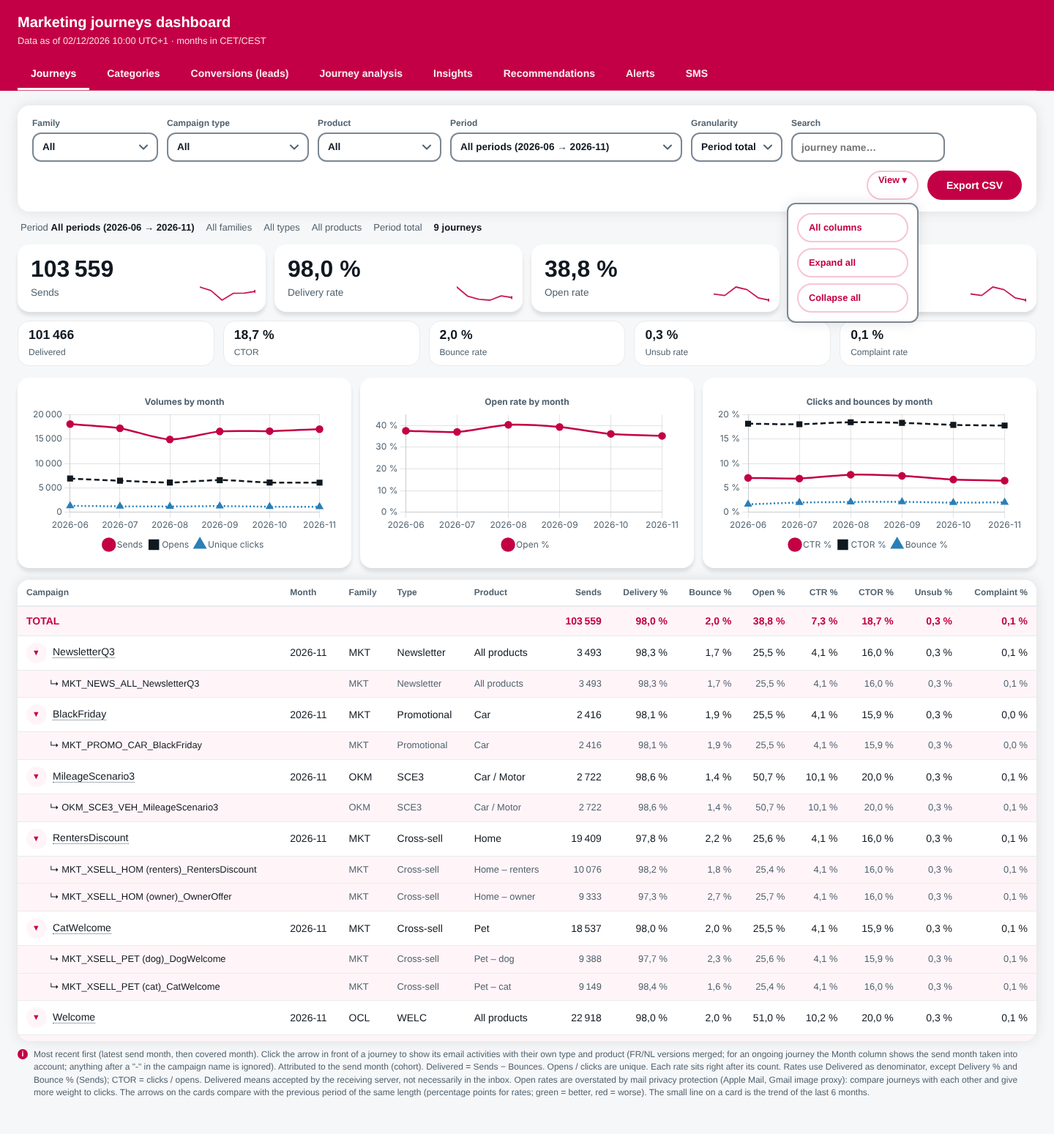
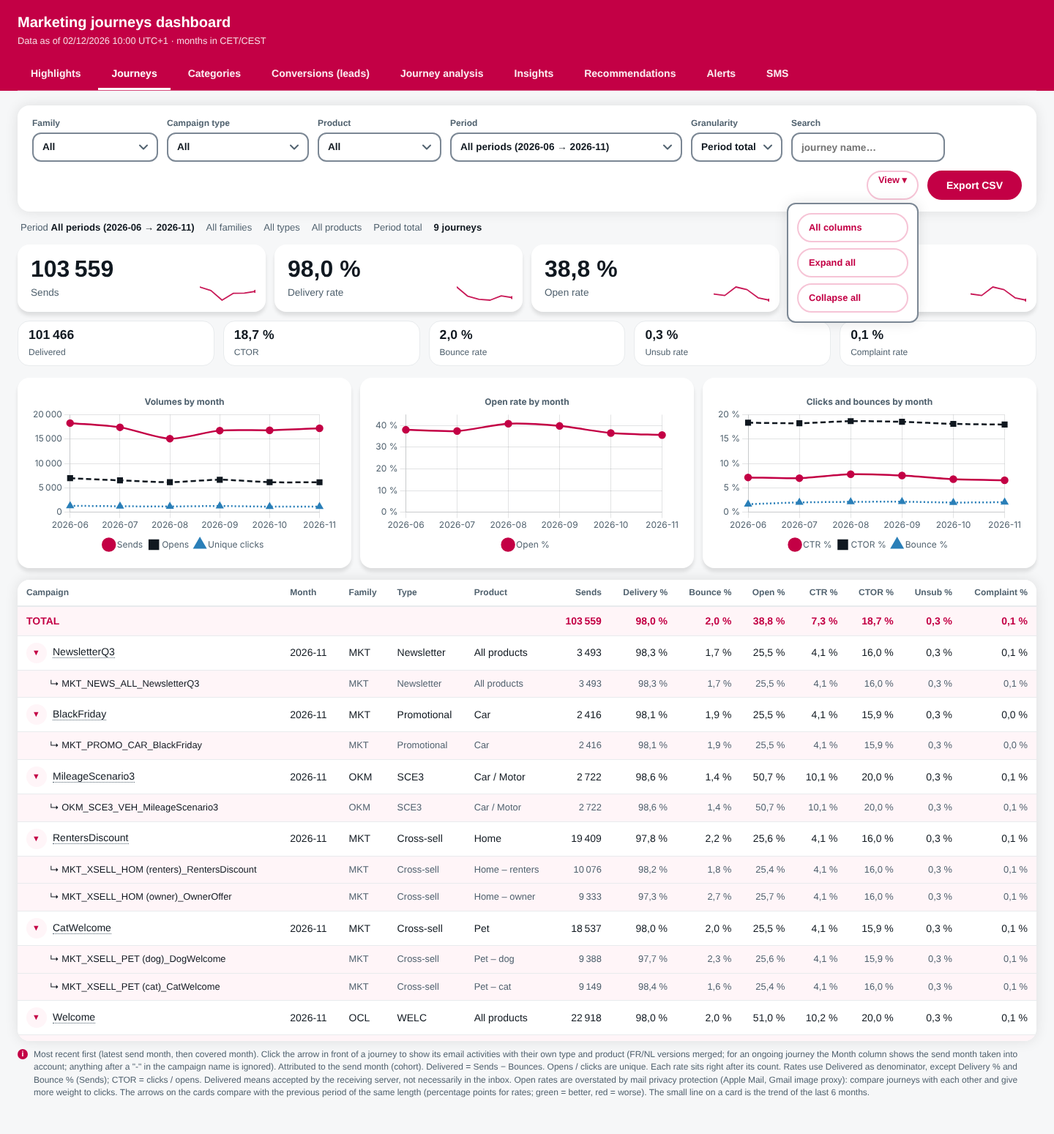
Highlights tab: key figures of the last 30 days, MKT campaigns sent, alerts and recommendations; DASH_Journey_KPI_Daily (query 28) and API part=daily
Claude-Session: https://claude.ai/code/session_01WtzjzeTDomDiWbenzCQNQG

diff --git a/html/cloudpage_dashboard.html b/html/cloudpage_dashboard.html
@@ -279,6 +279,12 @@ tr.child:hover td{background:var(--pink-light)}
 .top .bar2 i{display:block;height:100%;background:var(--red);border-radius:3px}
 .top .bar2{position:relative;overflow:visible}.top .bar2 i.mid{background:#d98a00}.top .bar2 i.hi{background:var(--red)}.top .bar2 .mk{position:absolute;top:-4px;width:2px;height:14px;background:var(--fg);opacity:.55}
 .cls{display:inline-flex;align-items:center;gap:4px;margin-right:8px;white-space:nowrap}.cls i{display:inline-block;width:14px;height:14px;border-radius:3px;border:1px solid rgba(16,24,32,.2)}
+.two{display:grid;grid-template-columns:repeat(auto-fit,minmax(380px,1fr));gap:12px;margin-bottom:16px}.two .card:hover{transform:none;border-color:transparent}.two h3{margin:0 0 8px;font-size:1rem}.two .n{font-size:.75rem;font-weight:600;padding:1px 9px;border-radius:12px;background:var(--pink-bg);color:var(--tx-red);margin-left:6px}
+.attn{list-style:none;margin:0 0 10px;padding:0}.attn li{display:grid;grid-template-columns:auto 1fr auto;gap:10px;align-items:center;padding:8px 0;border-top:1px solid var(--line)}.attn li:first-child{border-top:0}.attn small{display:block;color:var(--mute);font-size:.75rem;font-weight:400}.attn .sev{font-size:.72rem;font-weight:700;padding:1px 9px;border-radius:12px;border:1px solid currentColor;white-space:nowrap}
+.attn .sev.high{color:var(--err-text,#c40026)}.attn .sev.medium{color:#a86600}.attn .sev.info{color:#1f6a9c}.two p.ok{color:var(--ok-text);font-weight:600;margin:4px 0 10px}
+@media (prefers-color-scheme:dark){.attn .sev.medium{color:#f0b24a}.attn .sev.info{color:#6cb8ee}}
+.stt{font-weight:700;padding:1px 10px;border-radius:12px;border:1px solid var(--line);white-space:nowrap}.stt.fix{color:var(--err-text,#c40026);border-color:currentColor}.stt.watch{color:#a86600;border-color:currentColor}.stt.ok{color:var(--ok-text);border-color:currentColor}@media (prefers-color-scheme:dark){.stt.watch{color:#f0b24a}}
+.hlbtns{margin:12px 0 18px}
 .top .rl{margin:-4px 0 6px;font-size:.72rem;color:var(--mute)}
 td.bad{color:var(--err-text);font-weight:700}
 @media (max-width:768px){header{padding:12px 16px 0}main{padding:16px}.bar{padding:12px}.tab{padding:8px 12px}}
@@ -338,7 +344,8 @@ a.jl:focus-visible{outline:2px solid var(--focus);outline-offset:2px;border-radi
   <h1>Marketing journeys dashboard</h1>
   <div class="sub" id="gen" role="status" aria-live="polite">Loading…</div>
   <div class="tabs" role="tablist" aria-label="Dashboard sections">
-    <button class="tab" role="tab" id="tab-journeys" data-tab="journeys" aria-selected="true" aria-controls="v-main" tabindex="0">Journeys</button>
+    <button class="tab" role="tab" id="tab-hl" data-tab="hl" aria-selected="true" aria-controls="v-hl" tabindex="0">Highlights</button>
+    <button class="tab" role="tab" id="tab-journeys" data-tab="journeys" aria-selected="false" aria-controls="v-main" tabindex="-1">Journeys</button>
     <button class="tab" role="tab" id="tab-cats" data-tab="cats" aria-selected="false" aria-controls="v-main" tabindex="-1">Categories</button>
     <button class="tab" role="tab" id="tab-conv" data-tab="conv" aria-selected="false" aria-controls="v-main" tabindex="-1">Conversions (leads)</button>
     <button class="tab" role="tab" id="tab-ana" data-tab="ana" aria-selected="false" aria-controls="v-ana" tabindex="-1">Journey analysis</button>
@@ -389,6 +396,17 @@ a.jl:focus-visible{outline:2px solid var(--focus);outline-offset:2px;border-radi
   </div>
   <div id="ctx" class="ctx" role="status" aria-live="polite" hidden></div>
   <details id="warn" class="warn" hidden><summary><span aria-hidden="true">⚠</span> <span id="warnSum"></span></summary><p id="warnTxt"></p></details>
+
+  <section id="v-hl" hidden>
+    <div id="hlMsg" class="warn" role="status" hidden></div>
+    <div id="hlCards" class="cards"></div>
+    <h2 class="h2" id="hlCampTitle">Marketing campaigns sent in the last 30 days</h2>
+    <div class="wrap"><table id="tHl"></table></div>
+    <div class="hlbtns"><button type="button" class="btn2" data-go='{"tab":"journeys"}'>All journeys</button></div>
+    <h2 class="h2">Needs attention</h2>
+    <div class="two" id="hlAttn"></div>
+    <div class="note" id="hlNote"></div>
+  </section>
 
   <section id="v-main">
     <div id="cards" class="cards"></div>
@@ -497,7 +515,7 @@ const ALERT_MIN_DAYS = CFG.alertMinDays ?? 3;    /* do not alert before this man
 const DARK = () => window.matchMedia && matchMedia('(prefers-color-scheme: dark)').matches;
 const PAL_L = ['#c30045','#101820','#2a7fb8','#4b9b30','#ad0cdf'], PAL_D = ['#ff7da3','#eef0f2','#6cb8ee','#7fd36a','#d28bff'];
 const DASHES = [[],[7,4],[2,3],[10,3,2,3]], PTS = ['circle','rect','triangle','rectRot'];   /* series differ by shape and line style, not only by colour */
-const S = {tab:'journeys', fam:'ALL', type:'', prod:'', per:'all', from:'', to:'', gran:'total', grp:'journey', view:'cat', q:'', j:'', j2:'', gz:'', rc:'all', alert:'ongoing', compact:true, sub:'deliv', win:'3', gl:'prov', seg:'all', gc:'n'};
+const S = {tab:'hl', fam:'ALL', type:'', prod:'', per:'all', from:'', to:'', gran:'total', grp:'journey', view:'cat', q:'', j:'', j2:'', gz:'', rc:'all', alert:'ongoing', compact:true, sub:'deliv', win:'3', gl:'prov', seg:'all', gc:'n'};
 let DEF = {}, JSET = new Set(), FOCUS = null;
 const SORT = {};   /* sort state per table id: {k,d} */
 const EXP = new Set();   /* expanded journey rows (email activity detail) */
@@ -505,6 +523,7 @@ const LKINIT = new Set();
 const EXPKEYS = {};      /* keys of the rows that can be expanded, per table */
 
 const TABS = {
+  hl:      {view:'hl',   ctl:[], csv:null},
   journeys:{view:'main', ctl:['lFam','lType','lProd','lPer','lGran','lCompact','lExp','lQ'], csv:'tbl'},
   cats:    {view:'main', ctl:['lFam','lType','lProd','lPer','lGran','lCompact','lView','lQ'], csv:'tbl'},
   conv:    {view:'main', ctl:['lFam','lType','lProd','lPer','lGran','lGrp','lExp','lQ'], csv:'tbl'},
@@ -534,7 +553,7 @@ function remapRows(rows, fields){
   for (const r of rows) for (const f of fields){ const v = r[f]; if (v && JM[v]){ const c = jmCanon(v); if (c!==v){ let st = JORIG.get(c); if (!st){ st = new Set(); JORIG.set(c,st); } st.add(v); r[f] = c; } } }
   return rows;
 }
-const jmFields = {conv:['JourneyName','ConvJourney'], email:['JourneyName'], kpi:['JourneyName'], sms:['JourneyName'], domain:[]};
+const jmFields = {conv:['JourneyName','ConvJourney'], email:['JourneyName'], kpi:['JourneyName'], sms:['JourneyName'], domain:[], daily:['JourneyName']};
 function parse(name){
   if (_pc.has(name)) return _pc.get(name);
   if (name==='(no email)'){ const o = {fam:'–',type:'–',product:'–',campaign:name,period:'',covered:''}; _pc.set(name,o); return o; }
@@ -896,6 +915,61 @@ function viewConv(){
     (legacy ? " DASH_Conversions still has the old structure: rerun query 04 (backfill) after adding the new fields (see the README)." : "");
 }
 
+/* ---------- Highlights : last 30 days, MKT campaigns sent, what needs attention ---------- */
+let HLCTX = [];
+const addDays = (d, k) => { const t = new Date(d+'T00:00:00Z'); t.setUTCDate(t.getUTCDate()+k); return t.toISOString().slice(0,10); };
+const median = a => { const v = a.filter(x=>x!=null).sort((x,y)=>x-y), m = v.length>>1; return v.length ? (v.length%2 ? v[m] : (v[m-1]+v[m])/2) : null; };
+function viewHl(){
+  charts.forEach(c=>c.destroy()); charts = [];
+  if (D.aud===null && !D.audErr) loadAudience().then(()=>{ if (S.tab==='hl') render(); });
+  const msg = $('hlMsg'), dl = D.daily;
+  HLCTX = [];
+  if (!dl.length){
+    msg.hidden = false; msg.textContent = D.loading.has('daily') ? 'Loading the last 30 days…' : 'No daily data yet (DASH_Journey_KPI_Daily): create the data extension and run query 28 (see the README).';
+    cards('hlCards', []); $('tHl').innerHTML = ''; $('hlCampTitle').textContent = 'Marketing campaigns sent in the last 30 days';
+  } else {
+    msg.hidden = true;
+    const end = dl.reduce((m,r)=>r.SendDay>m?r.SendDay:m,''), start = addDays(end,-29), pS = addDays(end,-59), pE = addDays(end,-30);
+    const cur = dl.filter(r=>r.SendDay>=start && r.SendDay<=end), prv = dl.filter(r=>r.SendDay>=pS && r.SendDay<=pE);
+    HLCTX = ['Last 30 days <b>'+start+' → '+end+'</b>', prv.length ? 'compared with <b>'+pS+' → '+pE+'</b>' : 'no previous 30 days to compare with'];
+    const tot = group(cur, r=>['','']) [0] || ZERO(), ptot = prv.length ? group(prv, r=>['','']) [0] : null;
+    const series = group(cur, r=>['',r.SendDay]).sort((a,b)=>a.month<b.month?-1:1);
+    const all = kpiCards(tot, ptot, {from:pS,to:pE}, series.length>=3 ? series : null), pick = l => all.find(x=>x[1]===l);
+    cards('hlCards', ['Sends','Delivery rate','Open rate','CTR (unique)','Bounce rate','Unsub rate','Complaint rate'].map(pick).filter(Boolean), 4);
+    /* marketing campaigns that sent something in the window, with a simple status against similar campaigns */
+    const mk = group(cur.filter(r=>/^MKT_/.test(r.JourneyName)), r=>[r.JourneyName,'']).filter(a=>a.Sends>0);
+    const minS = RECO.minSends||1000, gap = (RECO.gapPt||5)/100, orate = a => deliv(a) ? a.Opens/deliv(a) : null;
+    mk.forEach(a=>{
+      const p = parse(a.name), peers = mk.filter(x=>x!==a && parse(x.name).type===p.type && deliv(x)>=minS), pool = peers.length>=2 ? peers : mk.filter(x=>x!==a && deliv(x)>=minS), mo = median(pool.map(orate)), o = orate(a);
+      const b = a.Sends ? a.Bounces/a.Sends : 0, c = deliv(a) ? a.Compl/deliv(a) : 0;
+      a.st = deliv(a)<minS ? 'Few sends' : (b>=0.05 || c>=0.003) ? 'Fix' : (b>=0.02 || c>=0.001 || (mo!=null && o!=null && o < mo-gap)) ? 'Watch' : 'OK';
+      a.why = a.st==='Fix' || a.st==='Watch' ? (b>=0.02 ? 'bounce '+pct(a.Bounces,a.Sends) : c>=0.001 ? 'complaints '+fx2(c*100)+' %' : 'open rate '+fx1((mo-o)*100)+' pts below similar campaigns') : '';
+    });
+    mk.sort((a,b)=>a.last<b.last?1:a.last>b.last?-1:b.Sends-a.Sends);
+    const top = mk.slice(0,8);
+    $('hlCampTitle').textContent = 'Marketing campaigns sent in the last 30 days ('+mk.length+')';
+    const keyCols = [{k:'name',l:'Campaign',v:a=>parse(a.name).campaign.toLowerCase(),f:a=>JSET.has(a.name) ? `<a href="#" class="jl" data-j="${esc(a.name)}" title="${esc(a.name)} – open the journey analysis">${esc(parse(a.name).campaign)}</a>` : esc(parse(a.name).campaign)}];
+    const cols = [
+      {k:'type',l:'Type',v:a=>parse(a.name).type,f:a=>esc(lab('type',parse(a.name).type)),left:true},
+      {k:'last',l:'Last send',v:a=>a.last,f:a=>esc(a.last),left:true},
+      {k:'Sends',l:'Sends',v:a=>a.Sends,f:a=>n(a.Sends)},
+      {k:'rOpen',l:'Open %',v:a=>orate(a)??-1,f:a=>deliv(a)?pct(a.Opens,deliv(a)):'–'},
+      {k:'rCtr',l:'CTR %',v:a=>deliv(a)?a.Clicks/deliv(a):-1,f:a=>deliv(a)?pct(a.Clicks,deliv(a)):'–'},
+      {k:'rBnc',l:'Bounce %',v:a=>a.Sends?a.Bounces/a.Sends:-1,f:a=>pct(a.Bounces,a.Sends)},
+      {k:'st',l:'Status',v:a=>({Fix:3,Watch:2,OK:1})[a.st]||0,f:a=>`<span class="stt ${a.st==='Fix'?'fix':a.st==='Watch'?'watch':a.st==='OK'?'ok':''}" title="${esc(a.why||'')}">${a.st}</span>${a.why?' <span class="d">'+esc(a.why)+'</span>':''}`,left:true}
+    ];
+    renderTable('tHl', keyCols, cols, top, null, {defK:'last', empty:'No marketing campaign sent in the last 30 days.'});
+  }
+  /* what needs attention: the strongest volume alerts and the most important recommendations */
+  const AL = computeAlerts().rows.filter(a=>a.alert).sort((a,b)=>a.change-b.change), RC = recoRules().findings.filter(f=>f.sev==='high'||f.sev==='medium').sort((a,b)=>SEV_ORDER[a.sev]-SEV_ORDER[b.sev]);
+  const li = (cls, tag, title, sub, go) => `<li><span class="sev ${cls}">${tag}</span><div><b>${esc(title)}</b>${sub?'<small>'+esc(sub)+'</small>':''}</div><button type="button" class="btn2" data-go="${esc(JSON.stringify(go))}">See</button></li>`;
+  $('hlAttn').innerHTML =
+    `<div class="card"><h3>Volume alerts <span class="n">${AL.length}</span></h3>${AL.length ? '<ul class="attn">'+AL.slice(0,3).map(a=>li('high','Alert',parse(a.name).campaign,fx1(Math.abs(a.change)*100)+' % below expected ('+n(a.cur)+' sends so far, '+n(Math.round(a.expected))+' expected)',{tab:'alerts'})).join('')+'</ul>' : '<p class="ok">✓ No journey below its expected volume.</p>'}<button type="button" class="btn2" data-go='{"tab":"alerts"}'>All alerts</button></div>`+
+    `<div class="card"><h3>Recommendations <span class="n">${RC.length}</span></h3>${RC.length ? '<ul class="attn">'+RC.slice(0,3).map(f=>li(f.sev,SEVS[f.sev],f.title,f.cat,f.go||{tab:'reco'})).join('')+'</ul>' : (D.aud===null && !D.audErr ? '<p class="d">Subscriber and list checks are still loading…</p>' : '<p class="ok">✓ Nothing to fix or watch.</p>')}<button type="button" class="btn2" data-go='{"tab":"reco"}'>All recommendations</button></div>`;
+  $('v-hl').querySelectorAll('[data-go]').forEach(b=>b.onclick=()=>recoGo(JSON.parse(b.dataset.go)));
+  $('hlNote').textContent = 'Last 30 days = the 30 most recent complete days in DASH_Journey_KPI_Daily, compared with the 30 days before. Opens and clicks are attributed to the send day. Campaign status: Fix = bounce rate 5 % or more, or complaints 0,3 % or more; Watch = bounce 2 % or more, complaints 0,1 % or more, or an open rate '+(RECO.gapPt||5)+' points below similar campaigns of the period; fewer than '+n(RECO.minSends||1000)+' delivered emails are not judged. Recommendations cover the period chosen on that tab.'+(D.aud===null && !D.audErr ? ' Subscriber and list checks are still loading.' : '');
+}
+
 /* ---------- Recommendations : rule-based findings computed from the data already loaded ---------- */
 const RECO = CFG.reco || {};
 const SEVS = {high:'Fix', medium:'Watch', info:'Insight'}, SEV_ORDER = {high:0, medium:1, info:2};
@@ -1034,6 +1108,7 @@ function recoRules(){
   return out;
 }
 const group2 = (rows, keyFn) => { const m = new Map(); for (const r of rows){ const k = keyFn(r); let a = m.get(k); if(!a){ a={name:k,n:0,c:0}; m.set(k,a); } a.n++; a.c+=r.IsConverted; } return [...m.values()]; };
+function recoGo(g){ if (g.j!==undefined) S.j = g.j; if (g.sub) S.sub = g.sub; if (g.seg) S.seg = g.seg; if (g.gc) S.gc = g.gc; if (g.q!==undefined){ S.q = g.q; $('fQ').value = g.q; } selectTab(g.tab); window.scrollTo(0,0); }
 function viewReco(){
   if (D.aud===null && !D.audErr) loadAudience().then(()=>{ if (S.tab==='reco') render(); });
   charts.forEach(c=>c.destroy()); charts = [];
@@ -1048,7 +1123,7 @@ function viewReco(){
   const artOf = f=>`<article class="reco ${f.sev}"><div class="rh"><span class="sev">${SEVS[f.sev]}</span><span>${esc(f.cat)}</span></div><h3>${esc(f.title)}</h3><p class="ev">${esc(f.ev)}</p><p class="ac"><b>Suggested action:</b> ${esc(f.action)}</p>${f.go?`<button type="button" class="btn2 go" data-go="${esc(JSON.stringify(f.go))}">See the data</button>`:''}</article>`;
   $('recoList').innerHTML = list.length ? [['high','Fix'],['medium','Watch'],['info','Insights']].map(([k,l])=>{ const g = list.filter(f=>f.sev===k); return g.length ? `<details class="rgrp ${k}"${k==='info'?'':' open'}><summary>${l} <span class="n">${g.length}</span></summary><div class="rlist">${g.map(artOf).join('')}</div></details>` : ''; }).join('')
     : `<div class="card"><b>Nothing to report</b><span>${res.checked ? 'No rule is triggered for this period and category.' : 'Not enough data for the checks yet.'}</span></div>`;
-  $('recoList').querySelectorAll('[data-go]').forEach(b=>b.onclick=()=>{ const g = JSON.parse(b.dataset.go); if (g.j!==undefined) S.j = g.j; if (g.sub) S.sub = g.sub; if (g.seg) S.seg = g.seg; if (g.gc) S.gc = g.gc; if (g.q!==undefined){ S.q = g.q; $('fQ').value = g.q; } selectTab(g.tab); window.scrollTo(0,0); });
+  $('recoList').querySelectorAll('[data-go]').forEach(b=>b.onclick=()=>recoGo(JSON.parse(b.dataset.go)));
   $('recoSkipped').hidden = !res.skipped.length; $('recoSkipList').innerHTML = res.skipped.map(s=>'<li>'+esc(s)+'</li>').join('');
   $('recoMethod').innerHTML = 'Rules run on the data already in the dashboard, for the selected period. A rule only fires when the volume is high enough (at least '+n(RECO.minSends||1000)+' delivered emails, '+n(RECO.minLeads||30)+' leads) and compares a journey with the median of similar journeys (same family and type, at least 3 of them) or with the previous period of the same length. Gaps are measured in points (default '+(RECO.gapPt||5)+'). Deliverability references: complaint rate under 0,1 % and never 0,3 % (Google, Yahoo); bounces under 2 % in total and hard bounces well under 1 % (industry benchmark, no provider threshold). Open rates are overstated by mail privacy protection, so an open-rate gap is only urgent when the click rate confirms it. Thresholds: <code>reco_min_sends</code>, <code>reco_min_leads</code> and <code>reco_gap_pt</code> in the admin page (Settings). These are leads to investigate, not proofs: the attribution of leads is an approximation and six months of history do not show seasonality.';
 }
@@ -1533,6 +1608,7 @@ function updateCtx(){
   if (tab==='ins' && S.sub!=='deliv' && S.sub!=='lists'){ el.hidden = true; return; }
   const period = 'Period <b>'+esc(periodText(S.per))+'</b>', parts = [];
   if (tab==='ana'){ if (!S.j){ el.hidden = true; return; } parts.push('Journey <b>'+esc(parse(S.j).campaign)+'</b>'+(S.j2 && S.j2!==S.j ? ' vs <b>'+esc(parse(S.j2).campaign)+'</b>' : ''), period); }
+  else if (tab==='hl'){ if (!HLCTX.length){ el.hidden = true; return; } parts.push(...HLCTX); }
   else if (tab==='alerts'){ el.hidden = false; el.innerHTML = '<span>Scope <b>'+(S.alert==='all'?'All journeys':'Ongoing journeys only')+'</b></span>'; return; }
   else if (tab==='ins' && S.sub==='lists'){ parts.push(period); }
   else if (tab==='reco'){ parts.push(period, 'All journeys, domains, leads and lists'); }
@@ -1590,9 +1666,9 @@ function render(){
   document.querySelector('.bar').hidden = [...document.querySelectorAll('.ctl')].every(e=>e.hidden) && $('bCsv').hidden && $('bReset').hidden;
   $('bFilt').hidden = document.querySelector('.bar').hidden; filtLabel();
   $('bCompact').setAttribute('aria-pressed', S.compact); $('bCompact').textContent = S.compact ? 'All columns' : 'Rates only';
-  ['main','ana','ins','reco','alerts','sms'].forEach(v=>$('v-'+v).hidden = v!==cfg.view);
+  ['hl','main','ana','ins','reco','alerts','sms'].forEach(v=>$('v-'+v).hidden = v!==cfg.view);
   $('v-'+cfg.view).setAttribute('aria-labelledby','tab-'+S.tab);
-  if (S.tab==='journeys') viewKpi('journey'); else if (S.tab==='cats') viewKpi(S.view); else if (S.tab==='conv') viewConv();
+  if (S.tab==='hl') viewHl(); else if (S.tab==='journeys') viewKpi('journey'); else if (S.tab==='cats') viewKpi(S.view); else if (S.tab==='conv') viewConv();
   else if (S.tab==='ana') viewAna(); else if (S.tab==='ins') viewIns(); else if (S.tab==='reco') viewReco(); else if (S.tab==='alerts') viewAlerts(); else viewSms();
   updateCtx(); updateBadge(); saveHash();
 }
@@ -1628,7 +1704,7 @@ function loadLinks(j, from, to){
 }
 async function loadPart(part){
   if (LOADING[part]) return LOADING[part];
-  LOADING[part] = api(part).then(j=>{ D[part] = remapRows(j[part]||[], jmFields[part]||[]); showWarn(j.warnings); }).catch(e=>{ D[part]=[]; showWarn([part+': '+e.message]); });
+  LOADING[part] = api(part).then(j=>{ D[part] = remapRows(j[part]||[], jmFields[part]||[]); if (part==='daily') D.daily.forEach(r=>{ r.Month = r.SendDay; }); showWarn(j.warnings); }).catch(e=>{ D[part]=[]; showWarn([part+': '+e.message]); });
   return LOADING[part];
 }
 
@@ -1698,7 +1774,7 @@ function setup(){
   $('fJ').innerHTML = js.map(j=>{const p=parse(j);return `<option value="${esc(j)}">${esc(p.campaign+' · '+(p.covered||'–')+' · '+p.fam+' · '+p.type+' · '+p.product)}</option>`;}).join('');
   S.j = ''; JSET = new Set(js);   /* no journey is preselected: the analysis page stays empty until one is chosen */
   $('fJ').innerHTML = '<option value=""></option>' + $('fJ').innerHTML; $('fJ2').innerHTML = $('fJ').innerHTML; buildJourneyList(js, last);
-  DEF = {tab:'journeys',fam:'ALL',type:'',prod:'',per:'all',gran:'total',grp:'journey',view:'cat',q:'',j:S.j,j2:'',gz:'',rc:'all',alert:'ongoing',sub:'deliv',win:'3',gl:'prov',seg:'all',gc:'n'};
+  DEF = {tab:'hl',fam:'ALL',type:'',prod:'',per:'all',gran:'total',grp:'journey',view:'cat',q:'',j:S.j,j2:'',gz:'',rc:'all',alert:'ongoing',sub:'deliv',win:'3',gl:'prov',seg:'all',gc:'n'};
   const on = (id,fn)=>{ $(id).onchange = e=>{fn(e.target.value); SORT.tbl=null; render();}; };
   on('fType',v=>S.type=v); on('fProd',v=>S.prod=v); on('fView',v=>S.view=v); on('fFam',v=>S.fam=v);
   on('fPer',v=>{ S.per=v; applyPeriod(); }); on('fGran',v=>S.gran=v); on('fGrp',v=>S.grp=v);
@@ -1749,7 +1825,7 @@ async function load(){
   try{
     const j = await api('');
     JORIG.clear(); for (const k of ['kpi','conv','email']) if (Array.isArray(j[k])) remapRows(j[k], jmFields[k]);
-    D = {kpi:j.kpi||[], conv:j.conv||[], email:j.email||[], domain:j.domain||[], loading:new Set(['conv','email','domain'].filter(x=>!Array.isArray(j[x]))), linksByJ:{}, linksErr:{}, sms:null, aud:null, audErr:'', generatedMs:j.generatedMs||0};
+    D = {kpi:j.kpi||[], conv:j.conv||[], email:j.email||[], domain:j.domain||[], loading:new Set(['conv','email','domain','daily'].filter(x=>!Array.isArray(j[x]))), daily:[], linksByJ:{}, linksErr:{}, sms:null, aud:null, audErr:'', generatedMs:j.generatedMs||0};
     LOADING = {}; $('warn').hidden = true;
     $('gen').textContent = 'Data as of '+(j.generatedMs ? new Intl.DateTimeFormat('fr-BE',{day:'2-digit',month:'2-digit',year:'numeric',hour:'2-digit',minute:'2-digit',timeZone:'Europe/Brussels',timeZoneName:'short'}).format(new Date(j.generatedMs)) : '–')+' · months in CET/CEST';
     showWarn(j.warnings);

diff --git a/html/cloudpage_api.html b/html/cloudpage_api.html
@@ -229,6 +229,11 @@ try {
     if (!domain.length) { domHard = false; domain = optional("DASH_Domain_Monthly", domBase, ["Sends","Bounces","Complaints"], "DASH_Domain_Monthly"); }
     else { numFields(domain, ["Sends","Bounces","Complaints","HardBounces"]); }
     Write(Stringify({ part: "domain", domain: domain, warnings: warnings }));
+  } else if (part === "daily") {
+    /* last ~45 complete days per journey (DASH_Journey_KPI_Daily, query 28) : Highlights */
+    var dly = optional("DASH_Journey_KPI_Daily", ["JourneyName","SendDay","Category","Sends","Bounces","HardBounces","Opens","UniqueClicks","Unsubscribes","Complaints"],
+                       ["Sends","Bounces","HardBounces","Opens","UniqueClicks","Unsubscribes","Complaints"], "DASH_Journey_KPI_Daily");
+    Write(Stringify({ part: "daily", daily: dly, warnings: warnings }));
   } else if (part === "sms") {
     var sms = optional("DASH_SMS_Monthly", ["JourneyName","Month","AssetName","Sent","Messages","UniqueRecipients","Delivered","Bounced"], ["Sent","Messages","UniqueRecipients","Delivered","Bounced"], "DASH_SMS_Monthly");
     Write(Stringify({ part: "sms", sms: sms, warnings: warnings }));

diff --git a/README.md b/README.md
@@ -54,6 +54,7 @@ Les demandes ci-dessous (faites à partir de 16 h le 27/11/2026) sont **impléme
 | 16 | **Erreur « The request has taken longer than the maximum time allowed » (408)** : l'API ne renvoie plus tout en une requête. `cloudpage_api.html` : le chargement initial ne contient que les KPI des journeys ; leads, emails et domaines sont lus par des requêtes séparées (`part=conv`, `email`, `domain`), chacune avec sa propre limite de temps ; les leads (`DASH_Conversions`, trop volumineuse pour une seule requête : 408 constaté en test) sont lus **un mois d'envoi par requête** (`&m=aaaa-mm`, 12 mois avant la première journey jusqu'au mois courant) ; un mois encore trop volumineux (novembre 2026 en test) est relu **jour par jour** (`&d=aaaa-mm-jj`). **Republier `cloudpage_api.html` et `cloudpage_dashboard.html` ensemble.** | Republier les deux pages. |
 | 17 | **Revue design et tendances UI/UX (appliquée)** : graphiques mensuels sans double axe (Volumes / Open rate / Clics et bounces), mini-courbes de tendance (6 mois) dans les cartes, leads par mois en échelle logarithmique, Top 5 domaines et journeys avec barres de **taux** et repères de seuil (1 % / 2 % rebonds, 0,1 % / 0,3 % plaintes), carte en 5 classes de quantiles, liste de publication en barres tant qu'il n'y a qu'un instantané ; bandeau d'avertissement en pastille repliée, recommandations groupées par gravité (Insights repliés) sur 2 colonnes, menu **View** (colonnes, Expand / Collapse), panneau **Filters** replié sur mobile, titre « Marketing journeys dashboard », période / onglet / colonnes mémorisés entre deux visites (localStorage) ; admin : recherche, sélection multiple et suppression groupée des IP, bouton de suppression discret. Corrections trouvées sur les pages réelles : statuts `_Subscribers` en minuscules, 429 (réessais), étiquettes de l'axe vertical. | Republier `cloudpage_dashboard.html` et `cloudpage_admin.html`. |
 | 18 | **Journey mapping (regrouper les journeys équivalentes)** : nouvelle DE `DASH_Journey_Map` (**JourneyName** Text(200) clé primaire, **Alias** Text(100)), alimentée par `sql/27_journey_map.sql` (Update, après la requête 01, uniquement les journeys Oxx ; l'Alias saisi n'est jamais écrasé). Nouvel onglet **Journey names** dans la page admin : un nom convivial par journey (ou le même pour une sélection). Les journeys qui reçoivent le **même nom** sont regroupées dans le dashboard (le nom de campagne est remplacé ; famille, type, produit et période restent ceux de la journey). Le regroupement est appliqué à la lecture : pas de backfill. Nouvelles réglages `journey_map_de` / `journey_map_name` (facultatifs). | Créer la DE, lancer la requête 27, republier les deux pages. |
+| 19 | **Nouvel onglet Highlights (premier onglet, ouvert par défaut)** : chiffres clés des **30 derniers jours** comparés aux 30 jours précédents (Sends, Delivery, Open, CTR, Bounce, Unsub, Complaint, mini-courbes journalières), campagnes **MKT** envoyées sur la période avec un statut simple (OK / Watch / Fix / peu d'envois) comparé aux campagnes similaires, et « Needs attention » : 3 alertes de volume et 3 recommandations les plus importantes. Nouvelle DE `DASH_Journey_KPI_Daily` (une ligne par journey et par jour, ~45 jours, écrasée chaque nuit) et nouvelle requête `sql/28_journey_kpi_daily.sql`. L'API ajoute `part=daily`. | Créer la DE, ajouter la requête 28 à l'automation (**Overwrite**), la lancer une fois, republier `cloudpage_api.html` et `cloudpage_dashboard.html`. |
 
 **Périodes proposées** : All periods, This month, Previous month, Last 2 months, Last 3 months, This quarter, Previous quarter, Last 6 months, This half-year, Previous half-year, Last 12 months, This year, Previous year. Chaque entrée affiche entre parenthèses les mois couverts.
 
@@ -73,6 +74,7 @@ Sans dates, l'historique se construit avec un instantané par mois : la colonne 
 ### Data Extensions à créer
 | DE | Champs (PK en gras) |
 |---|---|
+| DASH_Journey_KPI_Daily | **JourneyName** Text(200), **SendDay** Text(10) (clé primaire sur les 2), Category Text(3), Sends, Bounces, HardBounces, Opens, UniqueClicks, Unsubscribes, Complaints (Number) : les ~45 derniers jours complets (hier inclus), écrasée chaque nuit ; alimente l'onglet Highlights |
 | DASH_Journey_KPI_Monthly | **JourneyName** Text(200), **Month** Text(7), Category Text(3), Sends, Bounces, HardBounces, Opens, UniqueClicks, Unsubscribes, Complaints (Number) |
 | DASH_Conversions | **LeadId** Text(18) ; une ligne par lead : JourneyName Text(200) (journey d'origine ou « (no email) »), Category Text(50), SendMonth Text(7), SendDate Text(50), LeadCreatedDate Text(50), LeadStatus Text(100), Product Text(20), LeadProduct Text(20), EmailName Text(200), OriginKind Text(1), ConvJourney Text(200), ConvEmailName Text(200), ConvSendMonth Text(7), IsConverted, DaysToLead, Opened, Clicked (Number) |
 | DASH_Email_KPI_Monthly | **JourneyName** Text(200), **Month** Text(7), **EmailName** Text(200), Sends, Bounces, Opens, UniqueClicks, Unsubscribes, Complaints (Number) |
@@ -119,6 +121,7 @@ La DE doit s'appeler **DASH_Config** (nom et Customer Key). Le dashboard s'ouvre
 
 ### Automation Studio (quotidienne)
 1. `sql/01_journey_kpi_monthly.sql` → DASH_Journey_KPI_Monthly, **Update**
+   (Highlights : `sql/28_journey_kpi_daily.sql` → DASH_Journey_KPI_Daily, **Overwrite**, une exécution par jour ; ne dépend d'aucune autre requête)
 2. `sql/02_conversions.sql` → DASH_Conversions, **Update** (nécessite `Lead_Salesforce_1` et `DASH_Product_Map`)
 3. `sql/06_email_kpi_monthly.sql` → DASH_Email_KPI_Monthly, **Update**
 4. `sql/08_link_clicks_monthly.sql` → DASH_Link_Monthly, **Update**

diff --git a/sql/NOTES.md b/sql/NOTES.md
@@ -122,3 +122,7 @@ Source : les DE `List_Info` (« Information »), `List_Newsletter`, `List_Promo`
 ## Journey mapping (27)
 - **27** `DASH_Journey_Map` (clé : JourneyName ; champ Alias Text(100) non alimenté par la requête), mode **Update** : liste les journeys dont le nom ne commence pas par `MKT` (les journeys Oxx) à partir de `DASH_Journey_KPI_Monthly` (à lancer après la requête 01). Update ajoute les nouvelles journeys sans toucher à l'Alias déjà saisi dans la page admin (onglet *Journey names*).
 - Les journeys qui reçoivent le même alias sont regroupées dans le dashboard : l'alias remplace la partie « campagne » du nom (`OKM_SCE2_VEH_MileageScenario2_ongoing` + alias `MileageRenewal` donne `OKM_SCE2_VEH_MileageRenewal_ongoing`). Le regroupement est appliqué à la lecture (page dashboard), les DE ne sont pas réécrites.
+
+## Highlights (28)
+- **28** `DASH_Journey_KPI_Daily` (clé : JourneyName, SendDay), mode **Overwrite** : mêmes indicateurs que la requête 01 mais par jour d'envoi (CET), sur les 45 derniers jours complets (la journée en cours est exclue : une journée partielle fausserait les comparaisons). Les ouvertures, clics, désinscriptions et plaintes sont attribués au jour d'envoi (cohorte), comme dans la vue mensuelle. Journeys `MKT_` et `Oxx_` uniquement. Fenêtre en jours glissants : pas de backfill nécessaire.
+- Elle lit les mêmes Data Views que la requête 01 (`_Sent`, `_JourneyActivity`, `_Journey`, `_Bounce`, `_Open`, `_Click`, `_Unsubscribe`, `_Complaint`) sur une période plus courte : le temps d'exécution est inférieur. Non encore exécutée dans Marketing Cloud (syntaxe T-SQL vérifiée).
